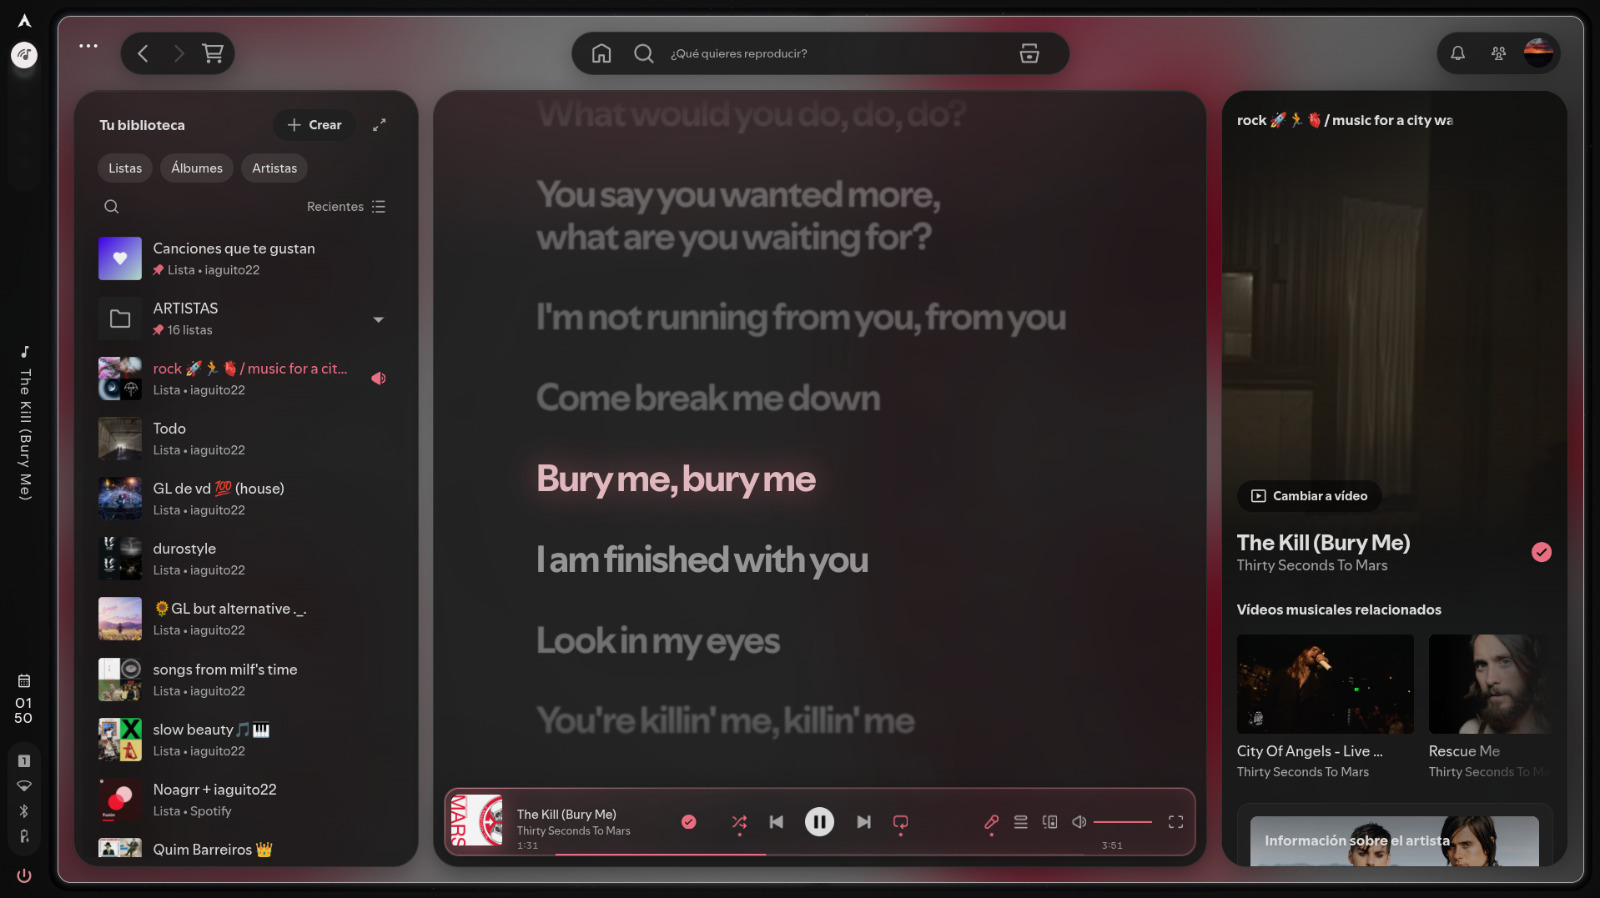
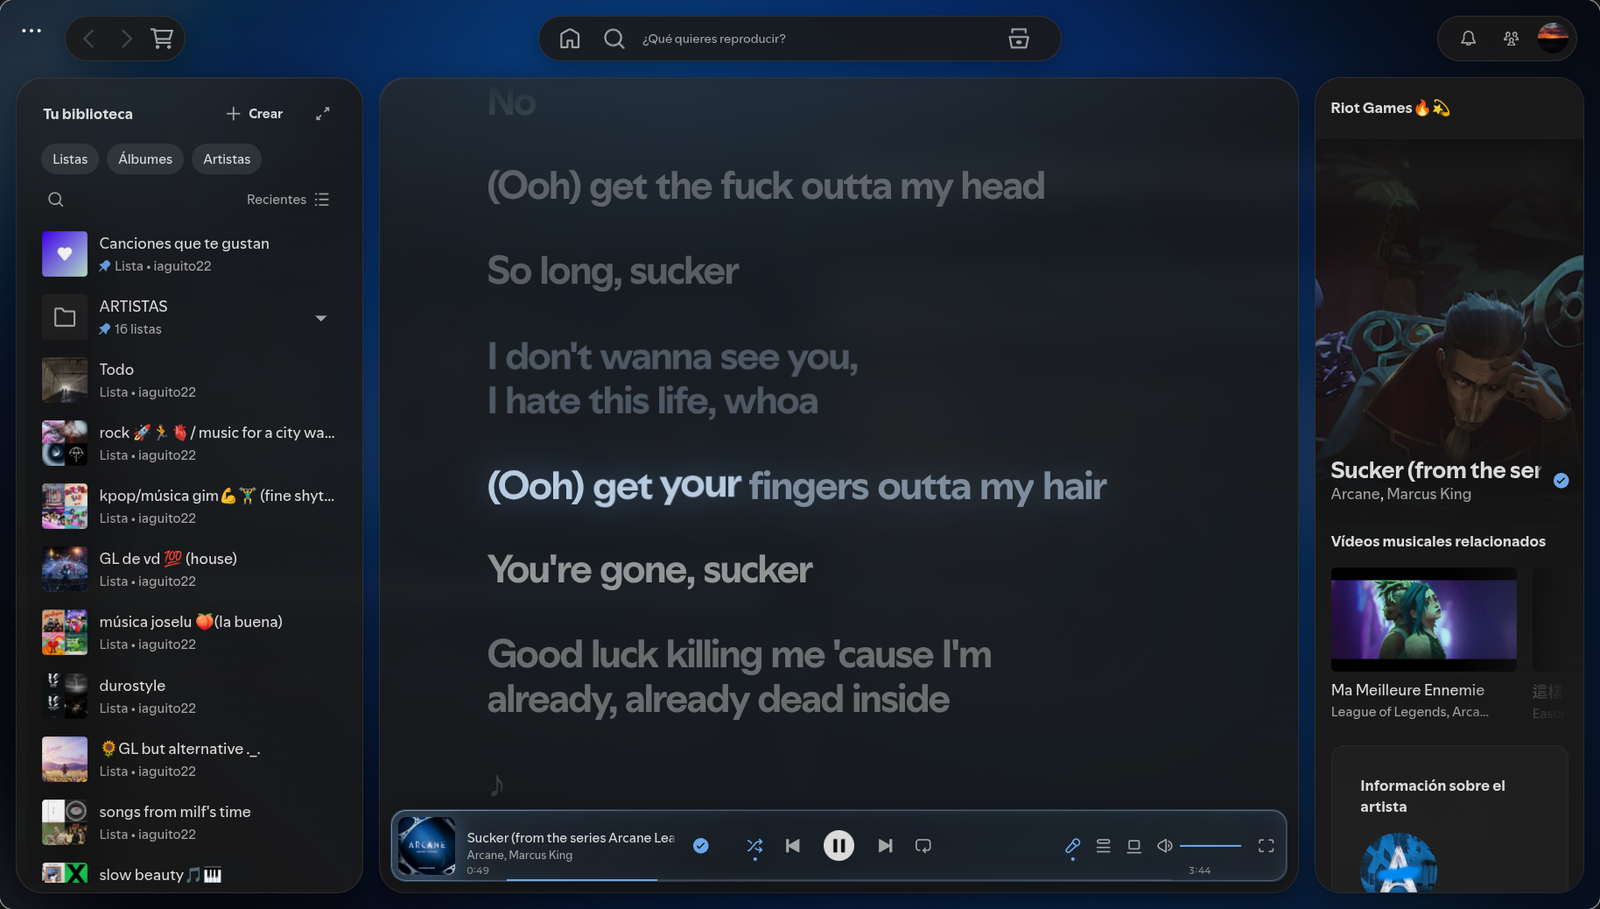
README: new lyrics screenshot, playlist back, images next to their sections, clearer language split

diff --git a/README.md b/README.md
@@ -5,8 +5,7 @@ A Spotify theme where the panels float as rounded islands and **the only color c
 > [!IMPORTANT]
 > This is a theme for **[Spicetify](https://spicetify.app)**, not a standalone app. Install Spicetify first and run `spicetify apply` once; then install the theme below.
 
-![Artist page](screenshots/artist.png)
-![Lyrics](screenshots/lyrics.png)
+*[Leer en español ↓](#-en-español)*
 
 ## Design
 
@@ -14,11 +13,15 @@ A Spotify theme where the panels float as rounded islands and **the only color c
 - **The cover is the palette.** Everything else is neutral gray, so the album art sets the mood: it fills the background (blurred) and tints the accent.
 - **Less chrome.** No scrollbars, no focus rings, no boxes around lists. Buttons that aren't needed all the time appear on hover.
 
+![Artist page](screenshots/artist.png)
+
 ## How the dynamic accent works
 
 When a song starts, the cover is drawn into a tiny 24×24 canvas. Each colored pixel votes for its hue, weighted by how saturated it is; grays, blacks and whites don't vote. The winning hue is clamped in saturation and lightness so it always reads against the background, and it fades in over ~1.4 s. Grayscale covers fall back to the scheme's own accent.
 
 That color drives the play button, progress bar, active lyric, highlights and the tint of the glass.
+
+![Playlist tinted by its cover](screenshots/playlist.png)
 
 ## How the lyrics work
 
@@ -28,6 +31,8 @@ That color drives the play button, progress bar, active lyric, highlights and th
   2. Spotify's own syllable timings, when it provides them.
   3. Otherwise an estimate: words move at a singing pace and the last one is held until the next line, since singers usually stretch it.
 - **Motion.** The word being sung lifts slightly; lines fade by distance, and the view scrolls smoothly to the current line.
+
+![Lyrics, filling word by word](screenshots/lyrics.png)
 
 ## Install
 
@@ -60,28 +65,37 @@ Spotify renames its CSS classes between versions; lyrics and side panels break f
 
 MIT license.
 
+<br>
+
+---
 ---
 
-## En español
+<br>
+
+# 🇪🇸 En español
 
 Un tema de Spotify en el que los paneles flotan como islas redondeadas y **el único color sale de la canción que suena**.
 
 > [!IMPORTANT]
 > Es un tema para **[Spicetify](https://spicetify.app)**, no una aplicación independiente. Instala primero Spicetify y ejecuta `spicetify apply` una vez; después instala el tema como se explica abajo.
 
-### Diseño
+## Diseño
 
 - **Islas.** La biblioteca, la vista central y el panel derecho flotan sobre el fondo con esquinas concéntricas (28 → 16 → 8 px). La barra superior son tres píldoras: navegación, búsqueda y perfil. El reproductor es un dock de cristal flotante.
 - **La portada es la paleta.** Todo lo demás es gris neutro, así que la carátula marca el ambiente: llena el fondo (difuminada) y tiñe el acento.
 - **Menos adornos.** Sin barras de desplazamiento, sin anillos de foco y sin cajas alrededor de las listas. Los botones que no hacen falta siempre aparecen al pasar el ratón.
 
-### Cómo funciona el acento dinámico
+![Página de artista](screenshots/artist.png)
+
+## Cómo funciona el acento dinámico
 
 Cuando empieza una canción, la portada se dibuja en un lienzo diminuto de 24×24. Cada píxel con color vota por su tono, con más peso cuanto más saturado está; los grises, negros y blancos no votan. El tono ganador se limita en saturación y luminosidad para que siempre se lea sobre el fondo, y aparece con un fundido de ~1,4 s. Las portadas en escala de grises usan el acento del propio esquema.
 
 Ese color mueve el botón de reproducir, la barra de progreso, la línea activa de la letra, los resaltados y el tinte del cristal.
 
-### Cómo funciona la letra
+![Playlist teñida por su portada](screenshots/playlist.png)
+
+## Cómo funciona la letra
 
 - **A tiempo.** Spotify resalta cada línea entre 0,1 y 0,9 s tarde. El tema lo ignora y sigue el reloj de la canción, así que cada línea se enciende cuando se canta.
 - **Palabra a palabra.** Primero la mejor fuente de tiempos:
@@ -90,7 +104,9 @@ Ese color mueve el botón de reproducir, la barra de progreso, la línea activa 
   3. Si no, una estimación: las palabras van a ritmo de canto y la última se alarga hasta la línea siguiente, porque los cantantes suelen estirarla.
 - **Movimiento.** La palabra que se canta se eleva un poco; las líneas se apagan según su distancia y la vista se desplaza suavemente hasta la línea actual.
 
-### Instalación
+![Letra rellenándose palabra a palabra](screenshots/lyrics.png)
+
+## Instalación
 
 **Linux / macOS**
 ```bash
@@ -109,7 +125,7 @@ Se instala en modo oscuro. Para el claro: `spicetify config color_scheme light` 
 
 **Usuarios de [Caelestia shell](https://github.com/caelestia-dots/shell):** poned `color_scheme = caelestia`. El shell reescribe los colores en cada cambio de esquema y el tema lo sigue, claro/oscuro incluido.
 
-### Estado
+## Estado
 
 | | |
 |---|---|
